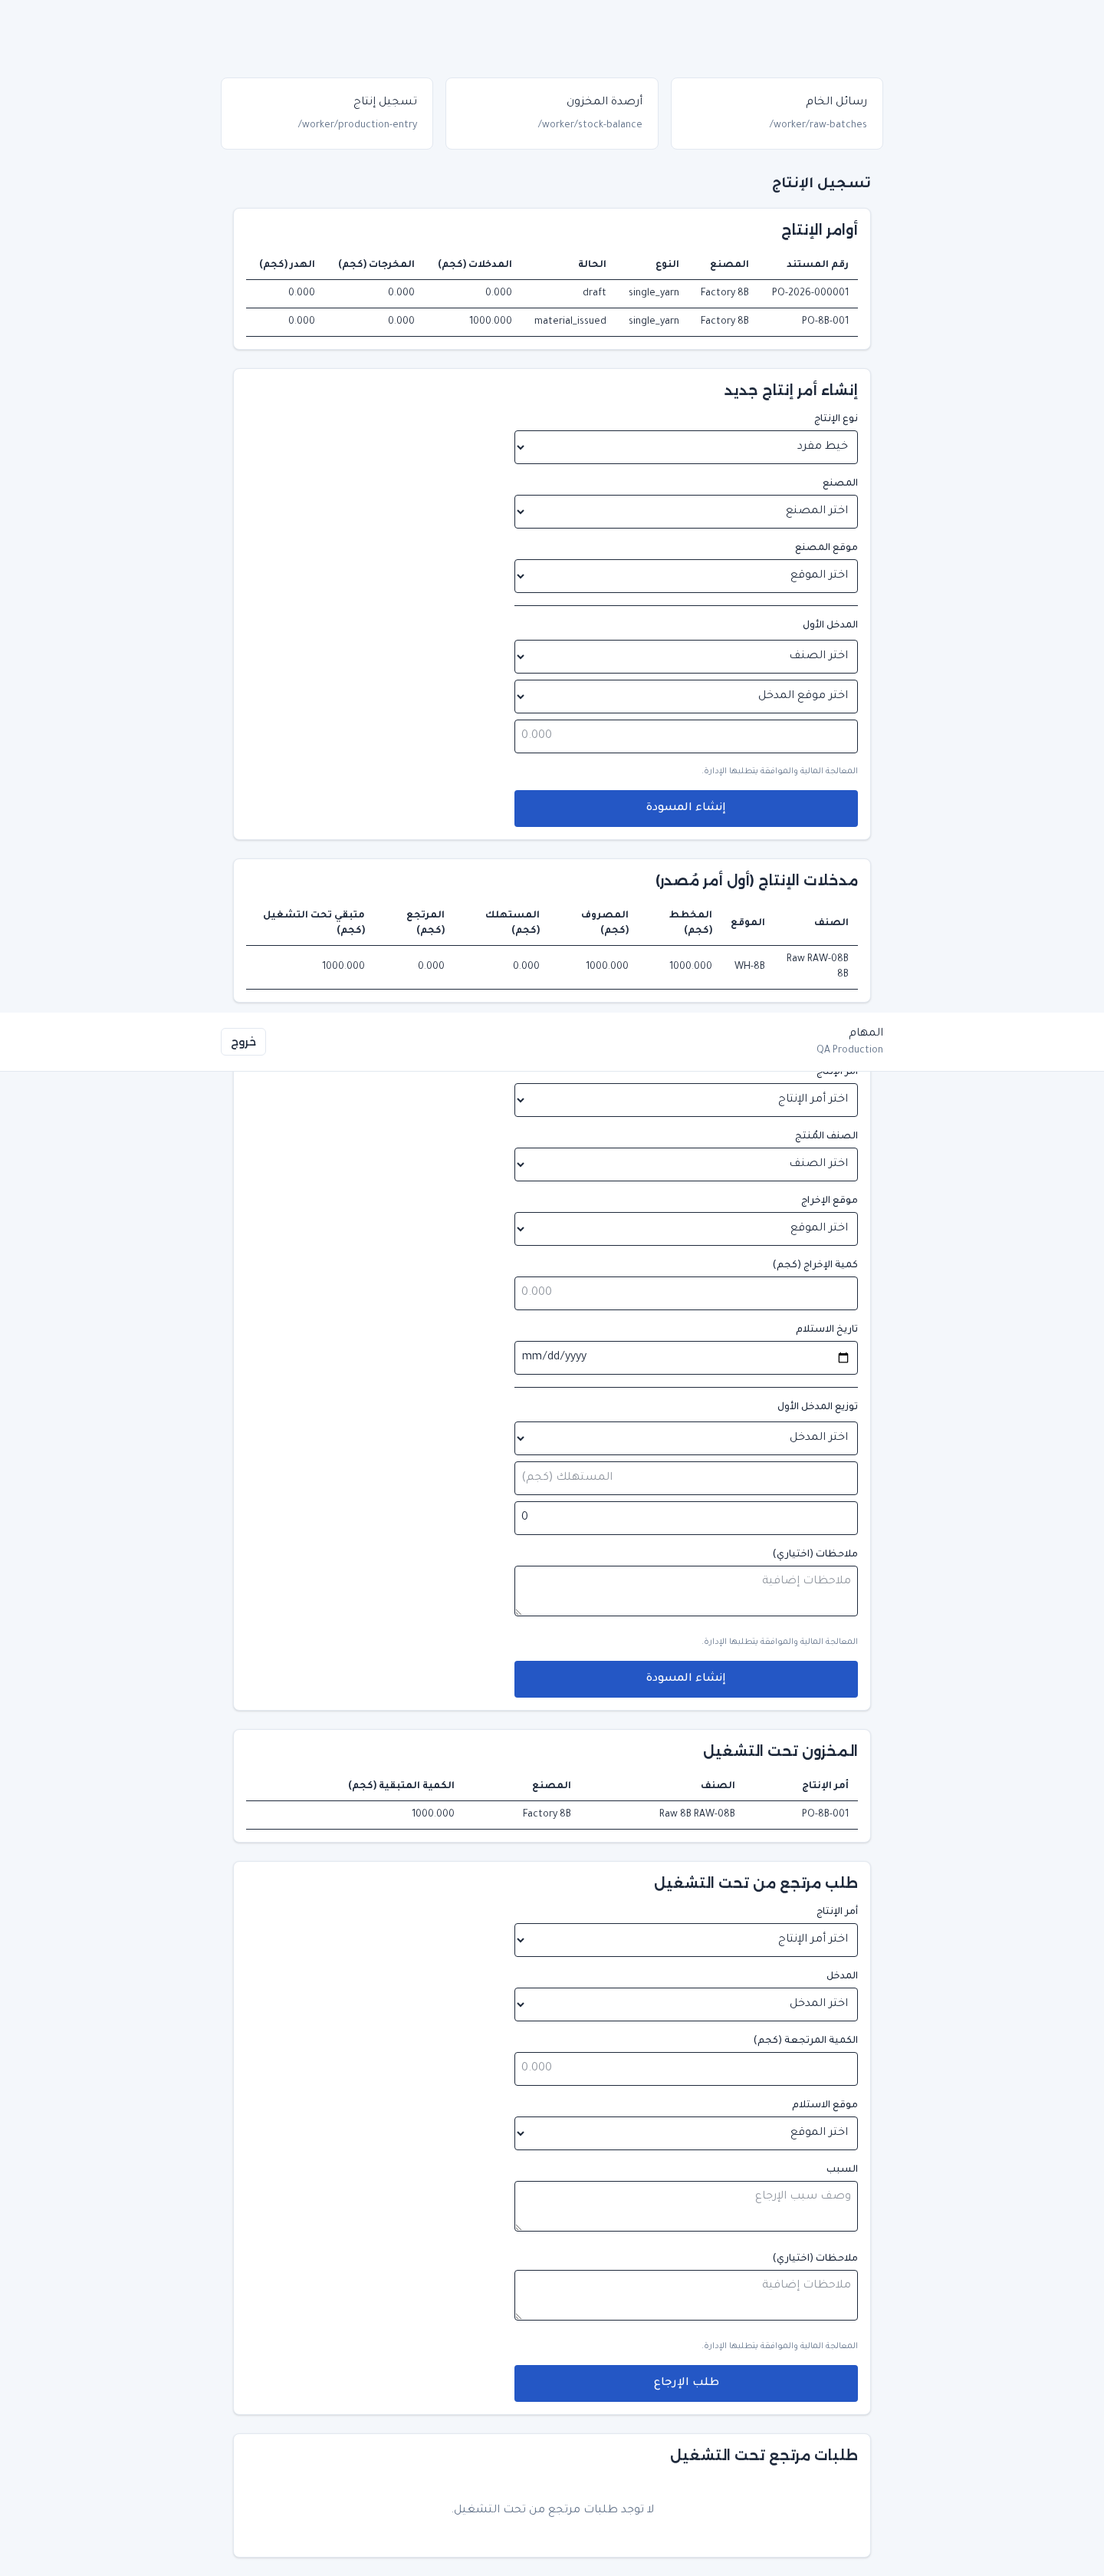
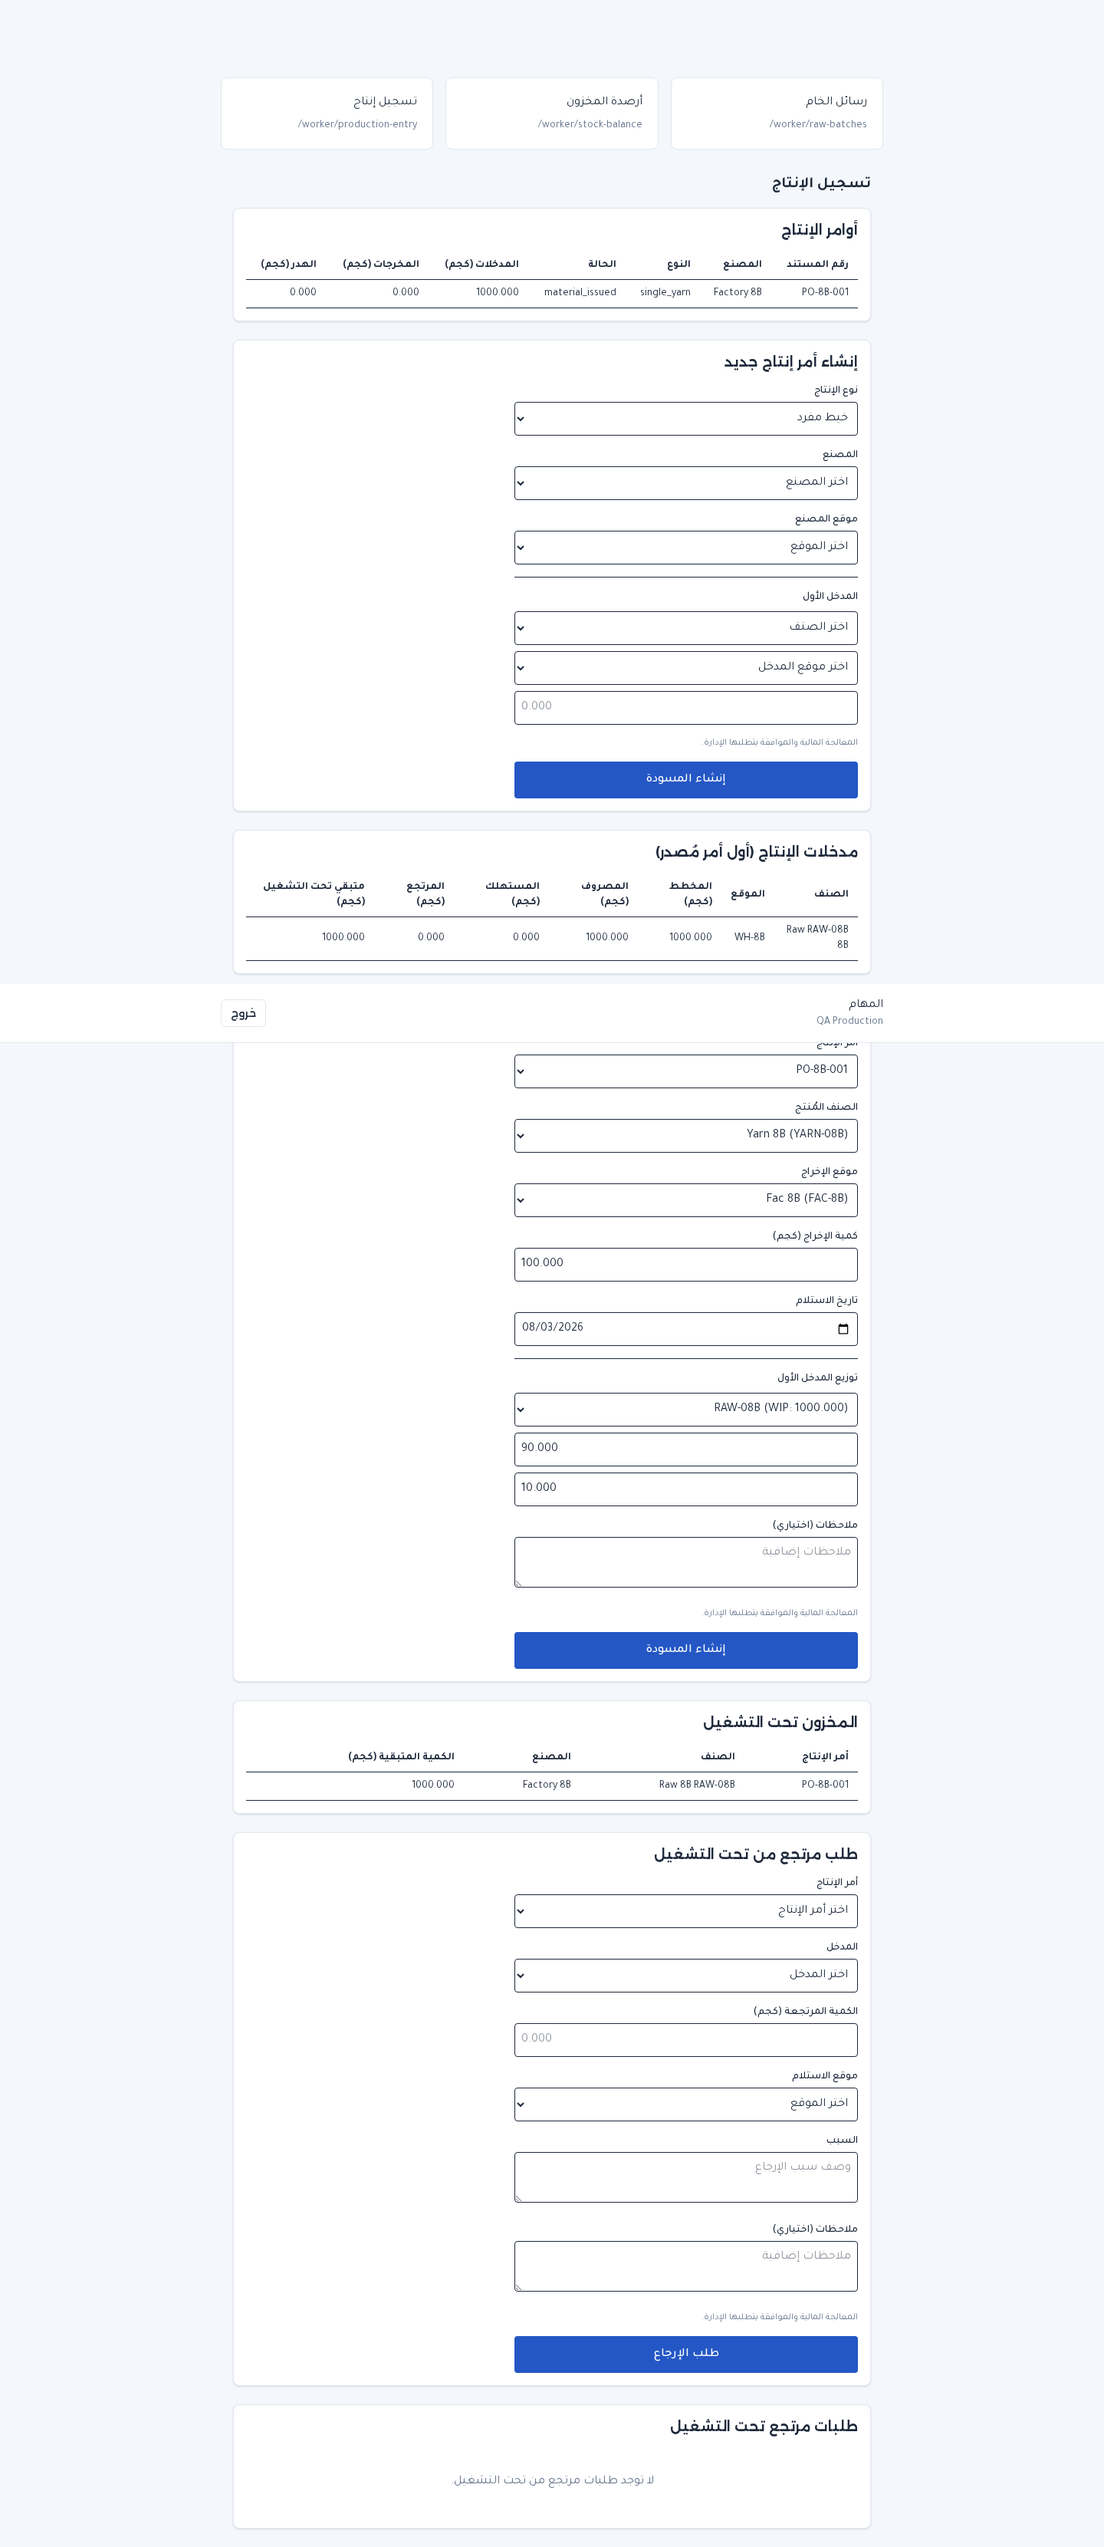
fix(WP-08-01B): receipt draft success proof — management receipts + DB evidence
Receipt draft success explicitly proven:

1. Worker submitted receipt draft via Playwright → SUCCESS (page stayed
   on /worker/production-entry, no error)

2. Management /management/production/receipts page shows PR-2026-000001:
   - VLM-verified: 'QA Owner B' visible, PR-2026-000001 (draft, 100.000kg,
     PO-8B-001) visible in receipts table
   - Captured at 4 viewports (360/768/1024/1440)

3. Management /management/production/wip page shows WIP unchanged:
   - WIP balance still 1000.000 (draft doesn't consume WIP)
   - Captured at 4 viewports

4. DB persistence proof:
   - Receipt ID: 818e5fc3-d63a-4b09-b876-1560fbc5212b
   - Receipt doc_no: PR-2026-000001, status: draft
   - Linked order: PO-8B-001 (material_issued)
   - Linked input: issued=1000, consumed=0, remaining_wip=1000
   - Allocation: consumed=90, waste=10, payable_basis=100
   - Financial fields: rate=NULL, cost=NULL (worker didn't submit)

5. No-financial-posting proof:
   - 0 worker-posted stock_movements
   - 0 account_entries
   - WIP balance unchanged (1000.000)
   - Input consumed unchanged (0.000)

8 new screenshots (4 management receipts + 4 management WIP after submit).
Total screenshots: 45.

Gates: all 6 green (2317 passed | 42 skipped).

diff --git a/docs/ui-ux/evidence/wp-08-01b/QA-MANIFEST.md b/docs/ui-ux/evidence/wp-08-01b/QA-MANIFEST.md
@@ -69,7 +69,7 @@
 | /worker/production-entry | 360 | receipt draft success | createReceiptDraft | `action-receipt-draft-success-360.png` | SUCCESS | YES | PASS | |
 | /worker/production-entry | 768 | receipt draft success | createReceiptDraft | `action-receipt-draft-success-768.png` | SUCCESS | YES | PASS | |
 | /worker/production-entry | 1024 | receipt draft success | createReceiptDraft | `action-receipt-draft-success-1024.png` | SUCCESS | YES | PASS | |
-| /worker/production-entry | 1440 | receipt draft success | createReceiptDraft | `action-receipt-draft-success-1440.png` | SUCCESS | YES | PASS | VLM: "QA Production" visible, production orders table with data |
+| /worker/production-entry | 1440 | receipt draft success | createReceiptDraft | `action-receipt-draft-success-1440.png` | SUCCESS | YES | PASS | VLM: "QA Production" visible, page stayed on production-entry |
 | /worker/production-entry | 360 | WIP return success | createWipReturnRequest | `action-wip-return-success-360.png` | SUCCESS | YES | PASS | |
 | /worker/production-entry | 768 | WIP return success | createWipReturnRequest | `action-wip-return-success-768.png` | SUCCESS | YES | PASS | |
 | /worker/production-entry | 1024 | WIP return success | createWipReturnRequest | `action-wip-return-success-1024.png` | SUCCESS | YES | PASS | |
@@ -82,6 +82,37 @@
 | /worker/production-entry | 768 | forms visible | N/A | `action-forms-visible-768.png` | N/A | YES | PASS | |
 | /worker/production-entry | 1024 | forms visible | N/A | `action-forms-visible-1024.png` | N/A | YES | PASS | |
 | /worker/production-entry | 1440 | forms visible | N/A | `action-forms-visible-1440.png` | N/A | YES | PASS | VLM: "QA Production" visible, 3 forms + tables |
+
+### Management receipts page after worker receipt draft submission (VLM-verified)
+
+| Route | Viewport | State | Screenshot | DB content | Pass/Fail | Notes |
+|---|---|---|---|---|---|---|
+| /management/production/receipts | 360 | receipt visible after worker submit | `mgmt-receipts-after-worker-submit-360.png` | YES | PASS | |
+| /management/production/receipts | 768 | receipt visible after worker submit | `mgmt-receipts-after-worker-submit-768.png` | YES | PASS | |
+| /management/production/receipts | 1024 | receipt visible after worker submit | `mgmt-receipts-after-worker-submit-1024.png` | YES | PASS | |
+| /management/production/receipts | 1440 | receipt visible after worker submit | `mgmt-receipts-after-worker-submit-1440.png` | YES | PASS | VLM: PR-2026-000001 visible (draft, 100.000kg, PO-8B-001), "QA Owner B" visible |
+| /management/production/wip | 360 | WIP unchanged after receipt submit | `mgmt-wip-after-receipt-submit-360.png` | YES | PASS | |
+| /management/production/wip | 768 | WIP unchanged after receipt submit | `mgmt-wip-after-receipt-submit-768.png` | YES | PASS | |
+| /management/production/wip | 1024 | WIP unchanged after receipt submit | `mgmt-wip-after-receipt-submit-1024.png` | YES | PASS | |
+| /management/production/wip | 1440 | WIP unchanged after receipt submit | `mgmt-wip-after-receipt-submit-1440.png` | YES | PASS | |
+
+### Receipt draft DB persistence proof
+
+- **Receipt ID**: `818e5fc3-d63a-4b09-b876-1560fbc5212b`
+- **Receipt doc_no**: `PR-2026-000001`
+- **Receipt status**: `draft` (not approved — worker can only create drafts)
+- **Linked production order**: PO-8B-001 (status: material_issued)
+- **Linked production input**: `40000000-...-080b05` (issued: 1000.000, consumed: 0.000, remaining WIP: 1000.000)
+- **Allocation**: consumed=90.000, waste=10.000, payable_cost_basis=100.000
+- **Financial fields**: factory_rate_per_input_ton_used=NULL, calculated_factory_cost=NULL (worker did NOT submit rate/cost)
+
+### No-financial-posting proof for receipt draft
+
+- **Worker-posted stock_movements**: 0 (draft creates no movement)
+- **Account entries**: 0 (draft creates no payable)
+- **WIP balance**: 1000.000 (UNCHANGED — draft doesn't consume WIP)
+- **Production input consumed_qty_kg**: 0.000 (UNCHANGED — draft doesn't consume input)
+- **Receipt financial fields**: rate=NULL, cost=NULL (worker doesn't have production.view_cost)
 
 ### Browser session fix
 
